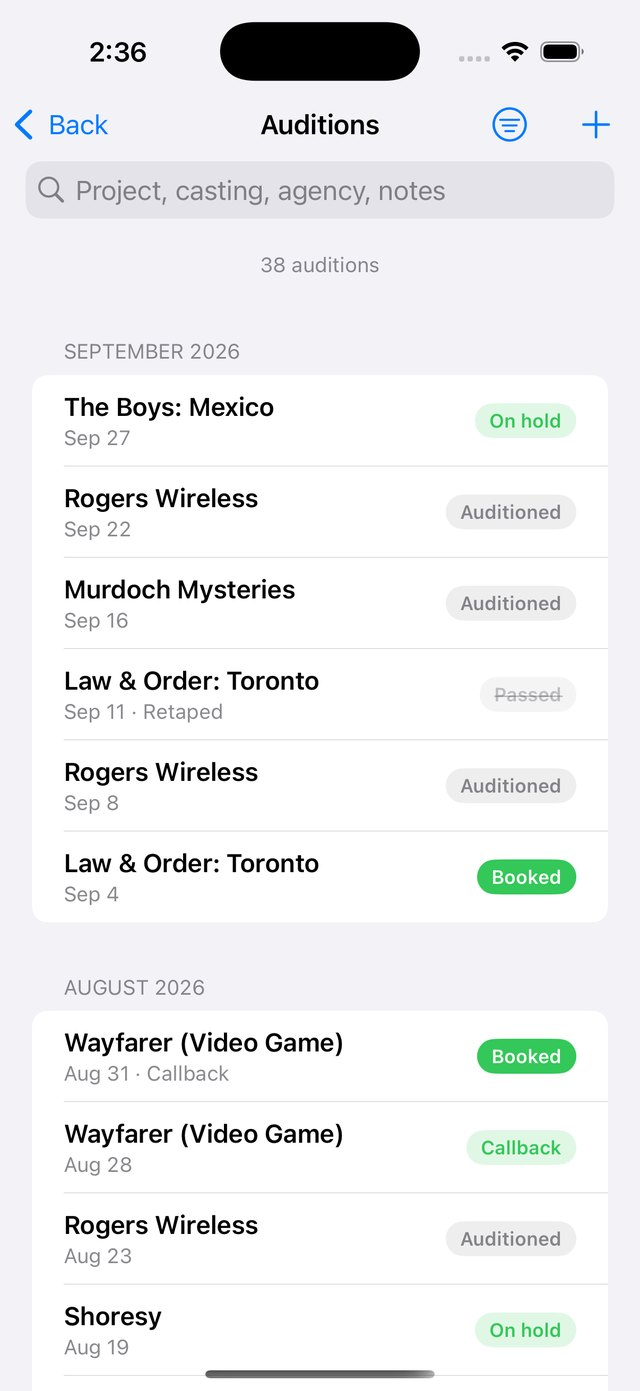
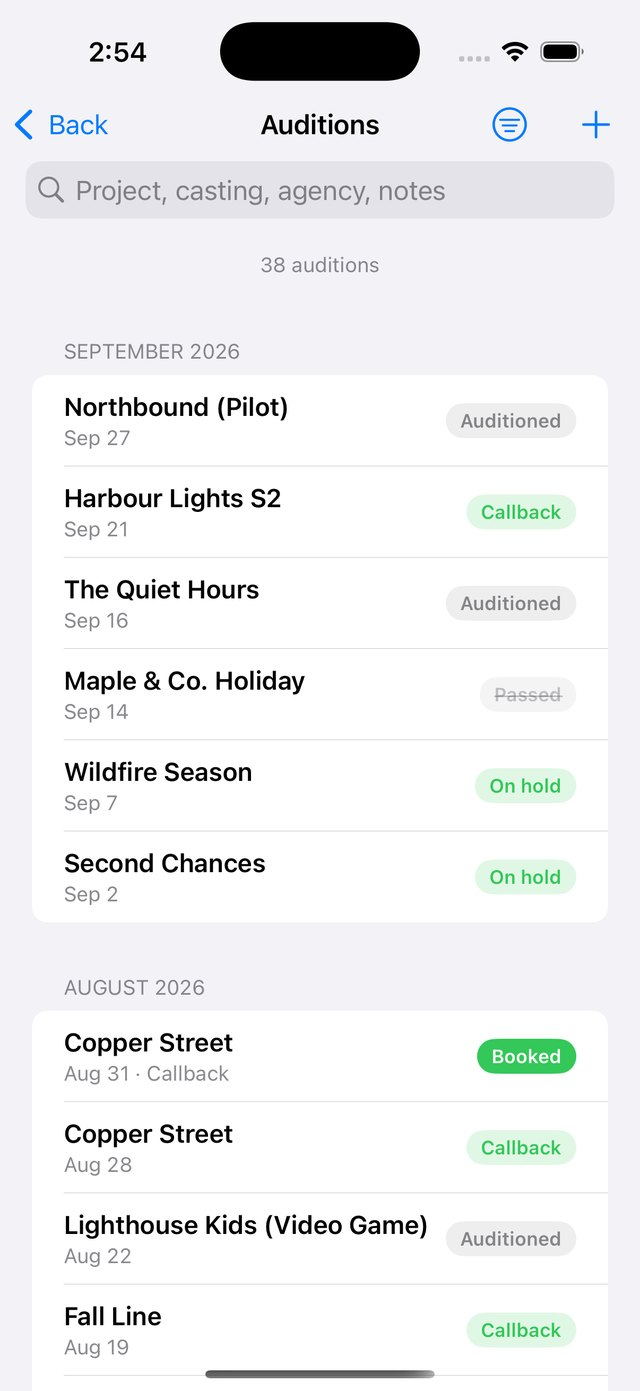
Home v5: drawn phone frames that rise in on scroll, shorter subtitles, invented audition names, last Wrapped page, 'app to learn lines' in the title

diff --git a/public/index.html b/public/index.html
@@ -3,13 +3,13 @@
 <head>
   <meta charset="UTF-8" />
   <meta name="viewport" content="width=device-width, initial-scale=1" />
-  <title>Booked: a reader for actors who have no one to run lines with</title>
-  <meta name="description" content="Booked is an iPhone app for actors. A reader that runs your sides with you, comes in on your cue, and tapes the self-tape. Learn lines faster, put yourself on tape without a reader, get booked more." />
+  <title>Booked: the app to learn lines, rehearse and self-tape</title>
+  <meta name="description" content="Booked is the app to learn lines: a reader that runs your sides with you, comes in on your cue, feeds you the next line when you blank, and records the self-tape. Made for actors by a working actor." />
   <link rel="icon" href="favicon.png" />
   <link rel="apple-touch-icon" href="apple-touch-icon.png" />
   <link rel="canonical" href="https://bookedactors.com/" />
   <meta property="og:type" content="website" />
-  <meta property="og:title" content="Booked: no more asking friends to read" />
+  <meta property="og:title" content="Booked: the app to learn lines, rehearse and self-tape" />
   <meta property="og:description" content="A reader that runs your sides with you, comes in on your cue, and tapes the take. Made for actors by a working actor." />
   <meta property="og:site_name" content="Booked" />
   <meta property="og:url" content="https://bookedactors.com/" />
@@ -75,31 +75,31 @@
       </span>
     </div>
     </div>
-    <img class="phone" src="shot-rehearse.jpg" alt="Booked's Rehearse screen: your line bright, the reader's lines dimmed, ready to play" />
+    <div class="device"><img src="shot-rehearse.jpg" alt="Booked's Rehearse screen: your line bright, the reader's lines dimmed, ready to play" /></div>
   </section>
 </div>
 
 <section class="band">
   <div class="wrap split flip">
     <div class="text"><h2>Learn lines <span class="mark">faster.</span></h2>
-    <p class="lead">Import the sides. The reader runs them with you, out loud, as many times as it takes.</p></div>
-    <img class="phone" src="shot-script.jpg" alt="A script in Booked with Rehearse and Record buttons" />
+    <p class="lead">Import the sides directly from email.</p></div>
+    <div class="device"><img src="shot-script.jpg" alt="A script in Booked with Rehearse and Record buttons" /></div>
   </div>
 </section>
 
 <section class="band black">
   <div class="wrap split">
     <div class="text"><h2>Drawing a blank? Say <span class="mark">&ldquo;line.&rdquo;</span></h2>
-    <p class="lead">It feeds you the next few words and keeps going. Nobody has to know.</p></div>
-    <img class="phone small" src="shot-rehearse.jpg" alt="The Rehearse screen with the line pill at the top" />
+    <p class="lead">The reader feeds you your next line.</p></div>
+    <div class="device small"><img src="shot-rehearse.jpg" alt="The Rehearse screen with the line pill at the top" /></div>
   </div>
 </section>
 
 <section class="band yellow">
   <div class="wrap split flip">
     <div class="text"><h2>Put yourself <span class="mark white">on tape.</span></h2>
-    <p class="lead">Same scene, same reader, camera on. Takes save to your Photos.</p></div>
-    <img class="phone" src="shot-record.jpg" alt="Booked's Record screen: the scene over the camera, a red record button" />
+    <p class="lead">Record self-tapes solo.</p></div>
+    <div class="device"><img src="shot-record.jpg" alt="Booked's Record screen: the scene over the camera, a red record button" /></div>
   </div>
 </section>
 
@@ -107,7 +107,7 @@
   <div class="wrap split">
     <div class="text"><h2>No more struggling to find a reader <span class="mark">last minute.</span></h2>
     <p class="lead">Sides at 11 p.m., tape in by morning. No favours owed.</p></div>
-    <img class="phone" src="shot-home.jpg" alt="Booked's home screen: Import PDF, your scripts, your auditions" />
+    <div class="device"><img src="shot-home.jpg" alt="Booked's home screen: Import PDF, your scripts, your auditions" /></div>
   </div>
 </section>
 
@@ -115,7 +115,7 @@
   <div class="wrap split flip">
     <div class="text"><h2>Track every <span class="mark white">audition.</span></h2>
     <p class="lead">Log it in seconds. See your year, your yes rate, who calls you in.</p></div>
-    <img class="phone" src="shot-auditions.jpg" alt="The audition log: projects by month with outcomes" />
+    <div class="device"><img src="shot-auditions.jpg" alt="The audition log: projects by month with outcomes" /></div>
   </div>
 </section>
 
@@ -123,7 +123,7 @@
   <div class="wrap split">
     <div class="text"><h2>Become <span class="mark">THAT</span> actor.</h2>
     <p class="lead">The one who is always ready. And at the end of the year, the numbers to prove it.</p></div>
-    <img class="phone" src="shot-wrapped.jpg" alt="Your year of auditions, wrapped: auditions, yeses, bookings" />
+    <div class="device"><img src="shot-wrapped-end.jpg" alt="Your year of auditions, wrapped: auditions, yeses, bookings" /></div>
   </div>
 </section>
 
@@ -162,5 +162,19 @@
     <div class="made">&copy; 2026 Booked</div>
   </footer>
 </div>
+<script>
+  // Phones rise into place as they scroll into view; skipped when the
+  // person has asked for reduced motion.
+  (function () {
+    if (window.matchMedia && window.matchMedia("(prefers-reduced-motion: reduce)").matches) return;
+    var devices = document.querySelectorAll(".device");
+    devices.forEach(function (d) { d.classList.add("will-rise"); });
+    if (!("IntersectionObserver" in window)) { devices.forEach(function (d) { d.classList.add("risen"); }); return; }
+    var io = new IntersectionObserver(function (entries) {
+      entries.forEach(function (e) { if (e.isIntersecting) { e.target.classList.add("risen"); io.unobserve(e.target); } });
+    }, { threshold: 0.25 });
+    devices.forEach(function (d) { io.observe(d); });
+  })();
+</script>
 </body>
 </html>

diff --git a/public/site.css b/public/site.css
@@ -65,8 +65,17 @@ p { margin: 0 0 14px; }
 .waitlist .done { font-weight: 700; margin: 8px 0 0; }
 .waitlist .err { color: #c62828; font-size: 14px; margin: 8px 0 0; }
 
-.phone { display: block; width: min(300px, 78%); height: auto; margin: 10px auto 0; border-radius: 34px; box-shadow: 0 24px 50px rgba(0,0,0,0.18); background: #000; }
-.phone.small { width: min(230px, 62%); }
+/* A drawn phone around each screenshot: black bezel, thin edge highlight, the
+   screenshot's own status bar and island inside it */
+.device {
+  display: block; width: min(300px, 78%); margin: 10px auto 0; padding: 11px;
+  background: #0b0b0b; border-radius: 46px;
+  box-shadow: 0 0 0 1.5px #3a3a3a, 0 0 0 3px #161616, 0 28px 56px rgba(0,0,0,0.28);
+}
+.device img { display: block; width: 100%; height: auto; border-radius: 36px; background: #000; }
+.device.small { width: min(230px, 62%); }
+.device.will-rise { opacity: 0; transform: translateY(28px) scale(0.985); transition: opacity 0.7s ease-out, transform 0.7s cubic-bezier(0.2, 0.7, 0.2, 1); }
+.device.risen { opacity: 1; transform: none; }
 
 section { padding: 38px 0; border-top: 1px solid var(--rule); }
 
@@ -125,8 +134,8 @@ footer .made { margin-top: 8px; }
   .split { display: grid; grid-template-columns: 1.15fr 0.85fr; gap: 40px; align-items: center; }
   .split.flip { grid-template-columns: 0.85fr 1.15fr; }
   .split.flip .text { order: 2; }
-  .split.flip .phone { order: 1; }
-  .split .phone, .split .phone.small { margin: 0 auto; width: min(280px, 100%); }
+  .split.flip .device { order: 1; }
+  .split .device, .split .device.small { margin: 0 auto; width: min(280px, 100%); }
   .hero.split { text-align: left; }
   .hero.split .lead { margin-left: 0; }
   .hero.split .stores { justify-content: flex-start; }
